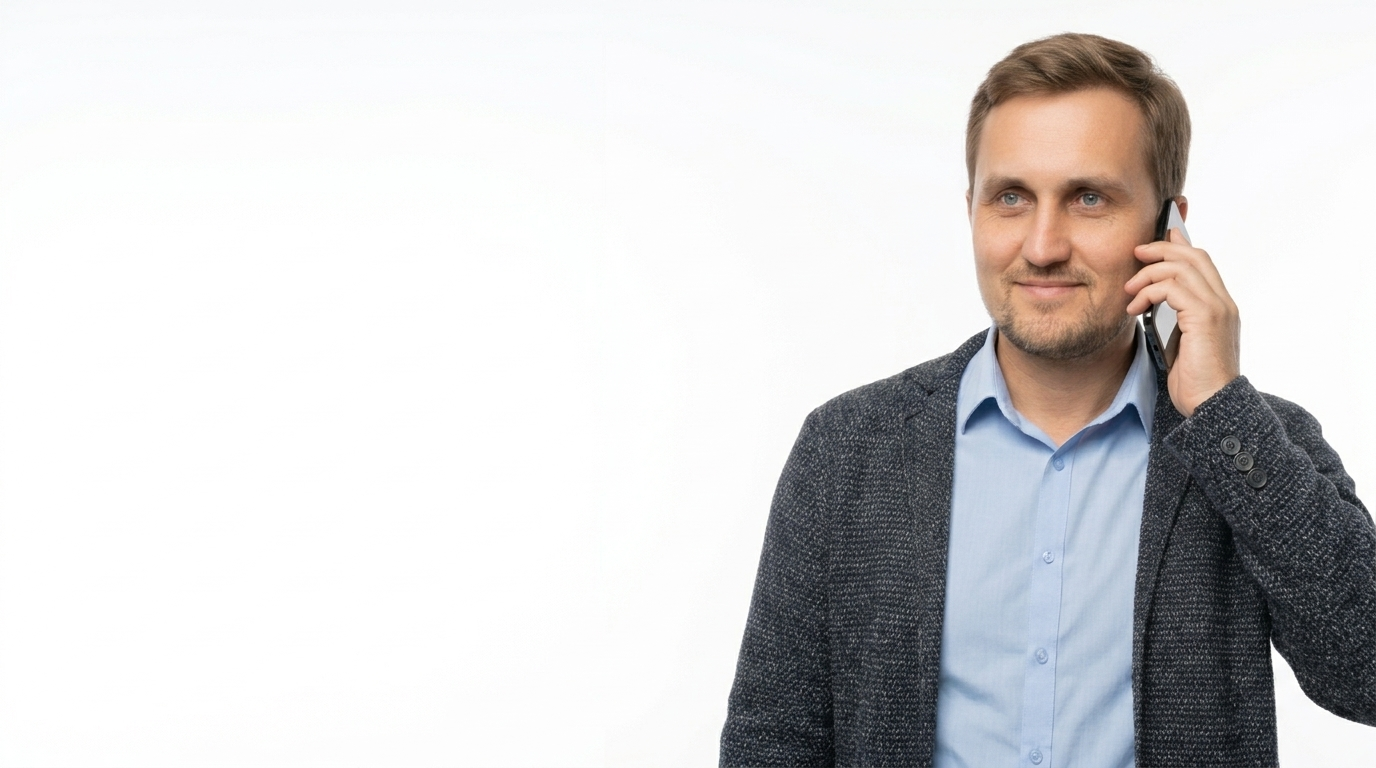
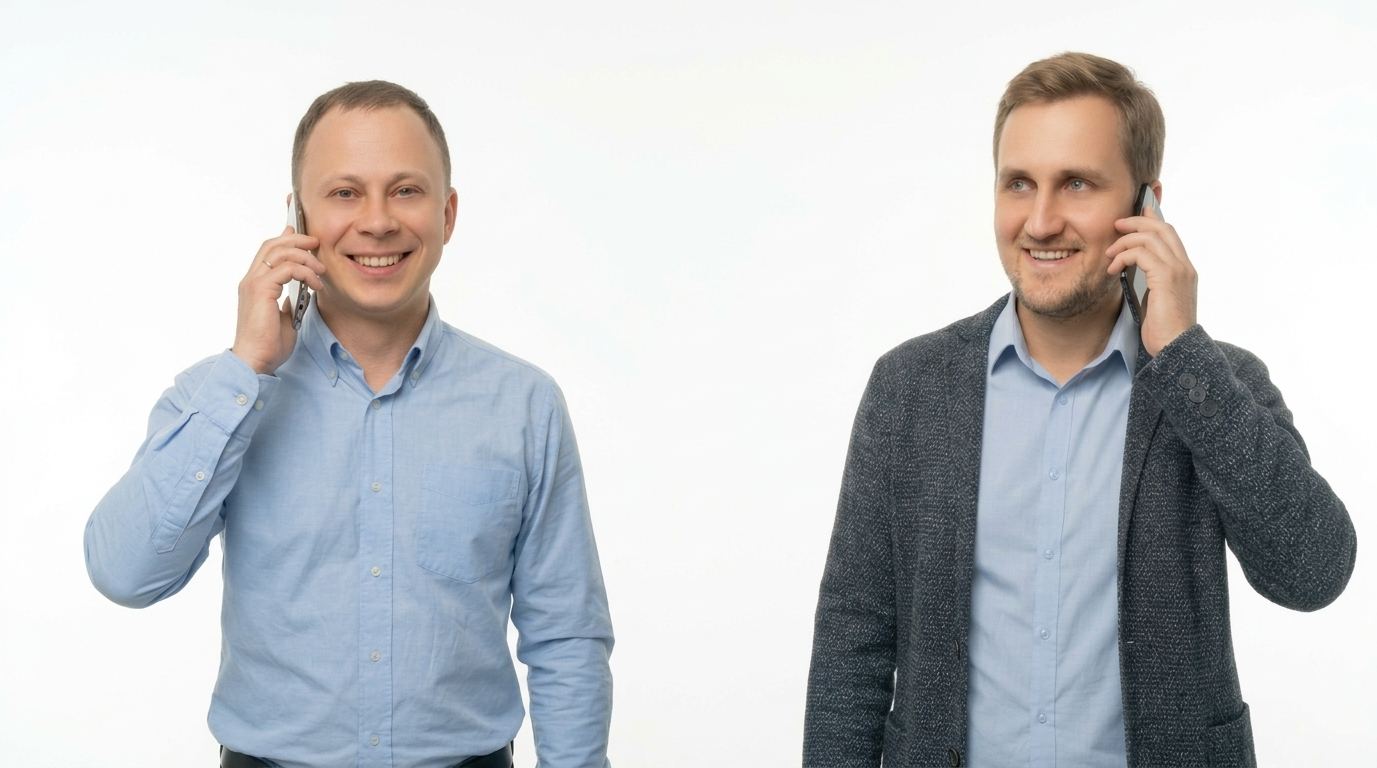
изменены контакты

diff --git a/index.html b/index.html
@@ -20,8 +20,8 @@
                         <img src="images/logo.svg" alt="ООО «ДонЭйрПром»">
                     </a>
                     <div class="header-contacts">
-                        <a href="tel:+79991234567" class="contact-phone">+7 999 123-45-67</a>
-                        <a href="mailto:info@donairprom.ru" class="contact-email">info@donairprom.ru</a>
+                        <a href="tel:+79185508608" class="contact-phone">+7 918 550-86-08</a>
+                        <a href="mailto:promcompressor@inbox.ru" class="contact-email">promcompressor@inbox.ru</a>
                     </div>
                 </div>
                 <nav class="nav-desktop">
@@ -152,7 +152,7 @@
                 <div class="contacts-info-block">
                     <div class="contacts-main-row">
                         <div class="contacts-col">
-                            <a href="tel:+79991234567" class="contacts-phone-big">+7 (999) 123-45-67</a>
+                            <a href="tel:+79185508608" class="contacts-phone-big">+7 918 550-86-08</a>
                             <p class="contacts-subtext">Единый номер, звонок по России бесплатный</p>
                         </div>
                         <div class="contacts-col">
@@ -166,15 +166,15 @@
                     <div class="contacts-main-row">
                         <div class="contacts-col">
                             <div class="contacts-label">Контакты в Ростове-на-Дону:</div>
-                            <p><strong>Алексей Хавричев</strong></p>
-                            <p><a href="tel:+79991234567">+7 (999) 123-45-67</a></p>
-                            <p><a href="mailto:info@donairprom.ru">info@donairprom.ru</a></p>
+                            <p><strong>Алексей</strong></p>
+                            <p><a href="tel:+79185508608">+7 918 550-86-08</a></p>
+                            <p><a href="mailto:promcompressor@inbox.ru">promcompressor@inbox.ru</a></p>
                         </div>
                         <div class="contacts-col">
                             <div class="contacts-label">Контакты в Волгограде:</div>
                             <p><strong>Юрий</strong></p>
-                            <p><a href="tel:+70000000000">+7 (000) 000-00-00</a></p>
-                            <p><a href="mailto:yuriy@donairprom.ru">yuriy@donairprom.ru</a></p>
+                            <p><a href="tel:+79880501013">+7 988 050-10-13</a></p>
+                            <p><a href="mailto:ingener-air@mail.ru">ingener-air@mail.ru</a></p>
                         </div>
                     </div>
                 </div>
@@ -254,9 +254,9 @@
                     <h4>Контакты</h4>
                     <ul>
                         <li>344092, г. Ростов-на-Дону, <br> пр-кт Космонавтов, зд. 2, помещ. 1, офис 1007</li>
-                        <li>Ростов-на-Дону: +7 999 123-45-67</li>
-                        <li>Волгоград: +7 000 000-00-00</li>
-                        <li>Email: info@donairprom.ru</li>
+                        <li>Ростов-на-Дону: +7 918 550-86-08</li>
+                        <li>Волгоград: +7 988 050-10-13</li>
+                        <li>Email: promcompressor@inbox.ru</li>
                     </ul>
                 </div>
             </div>
